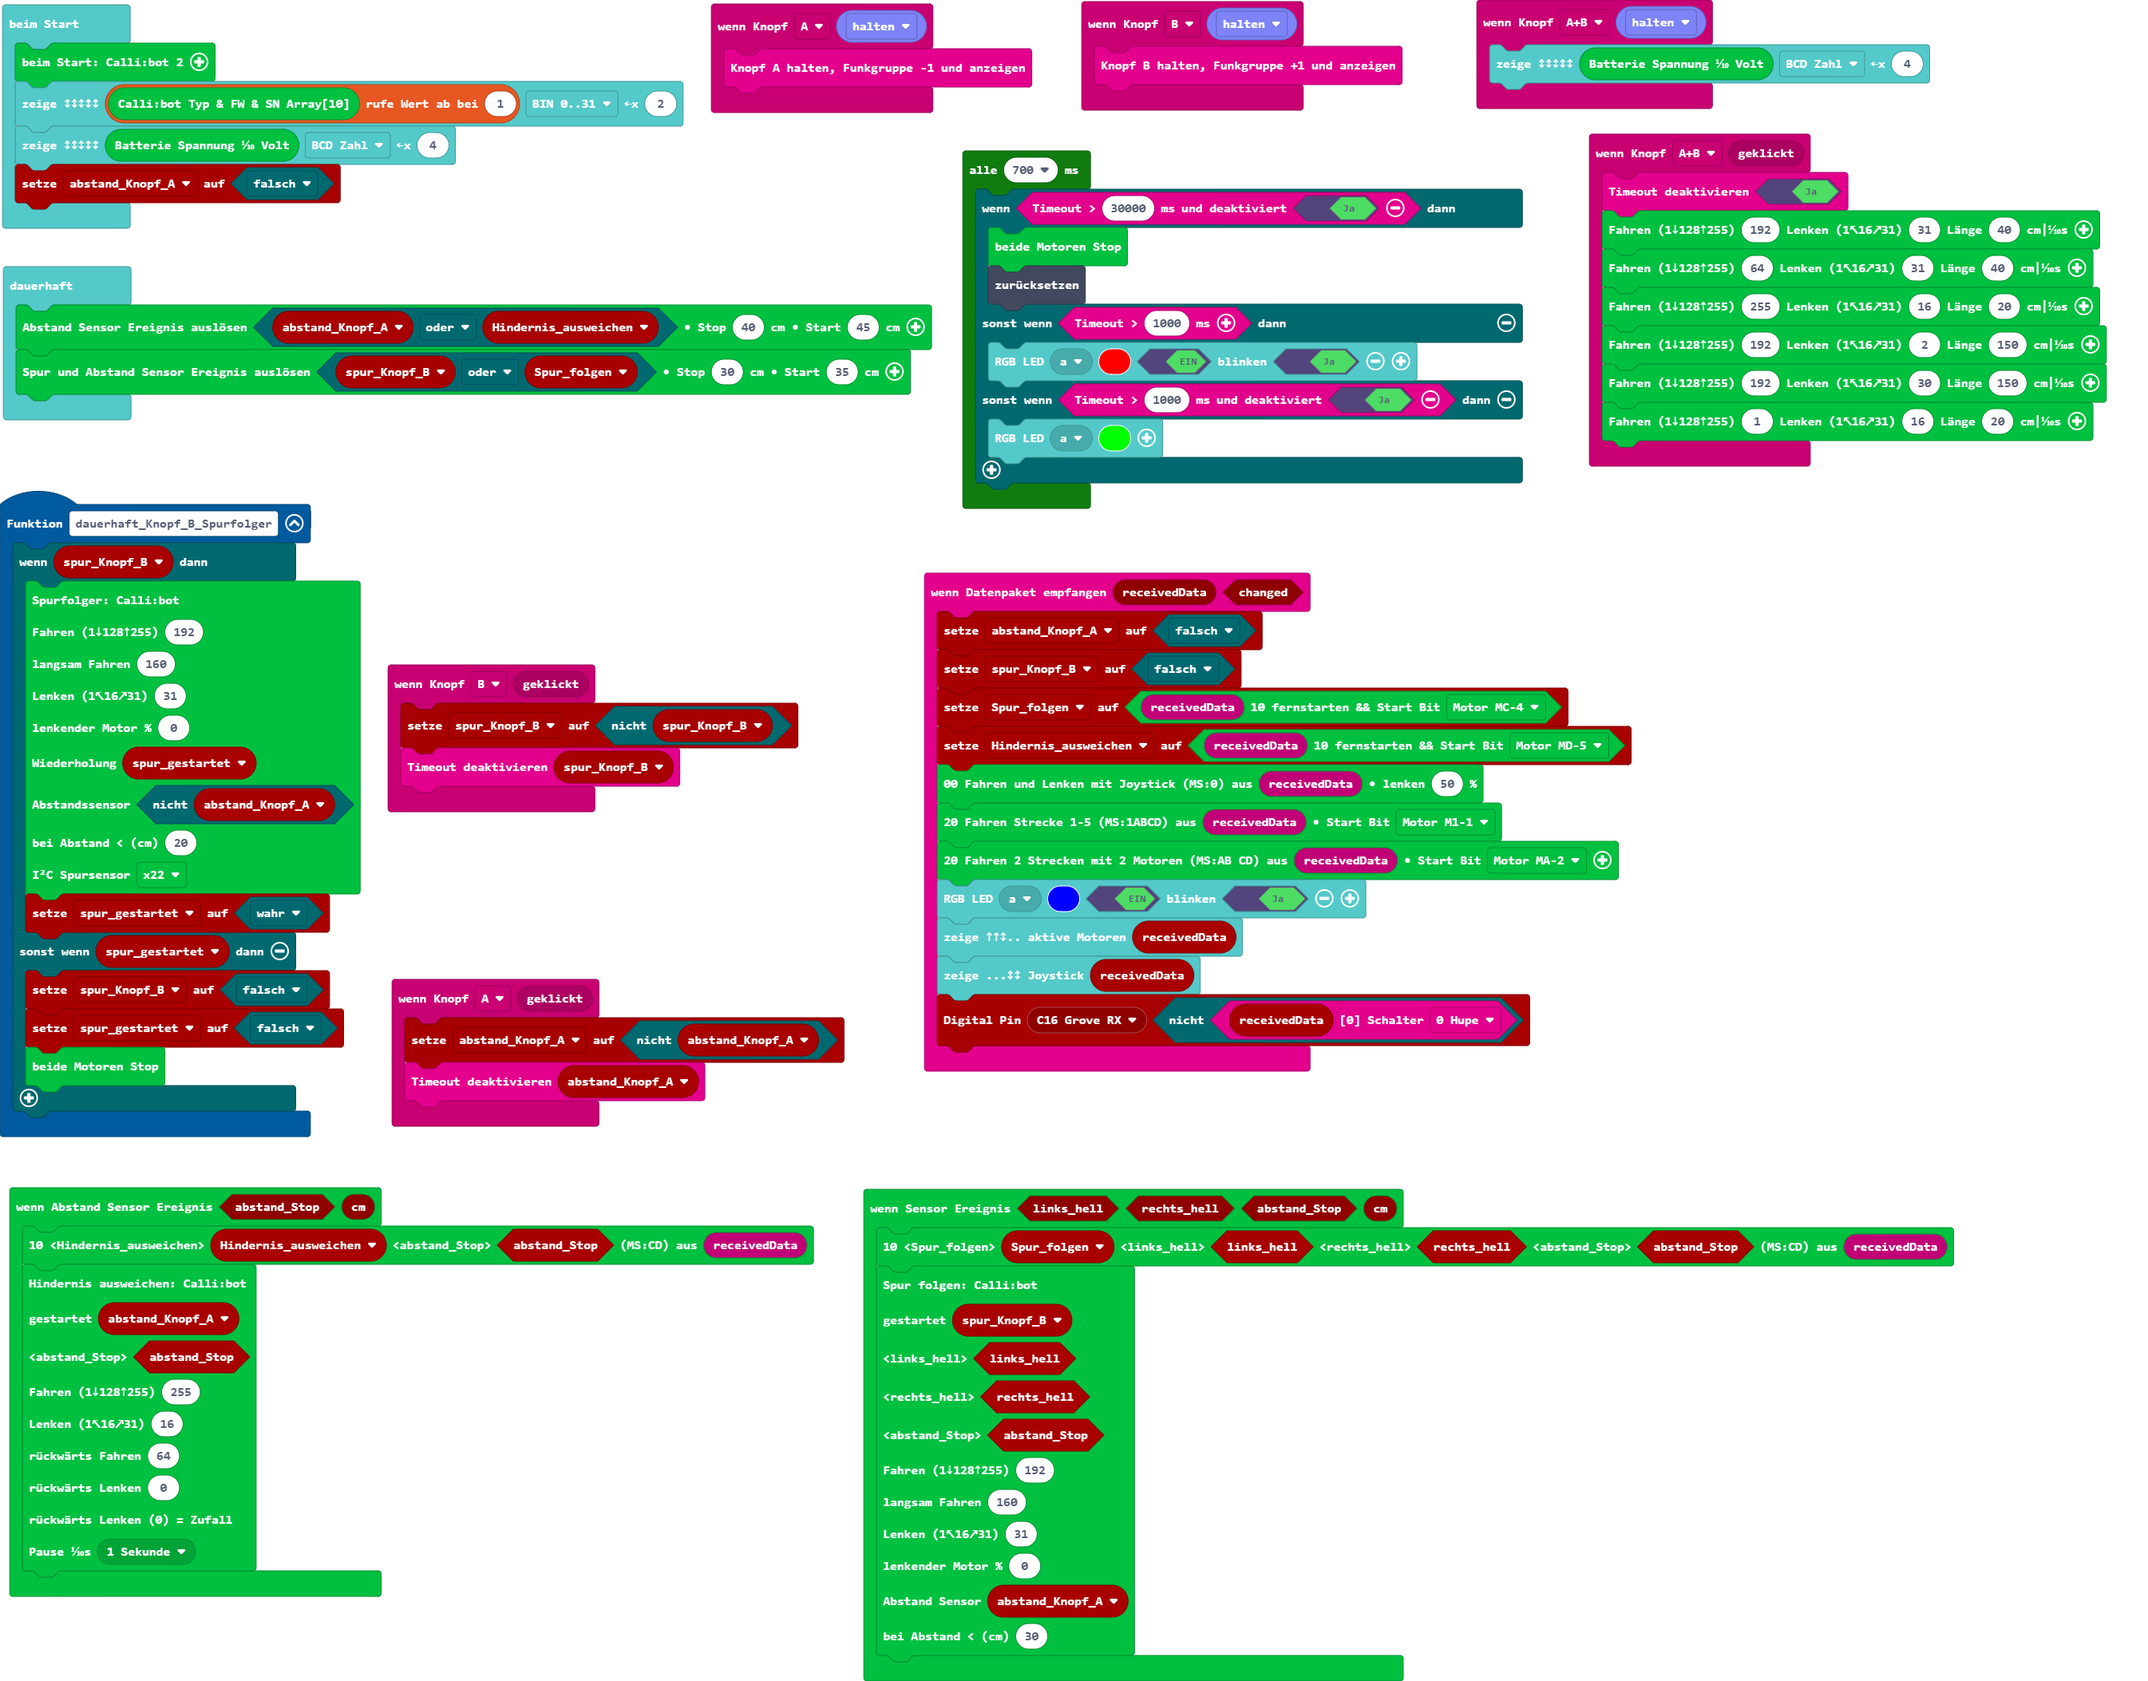
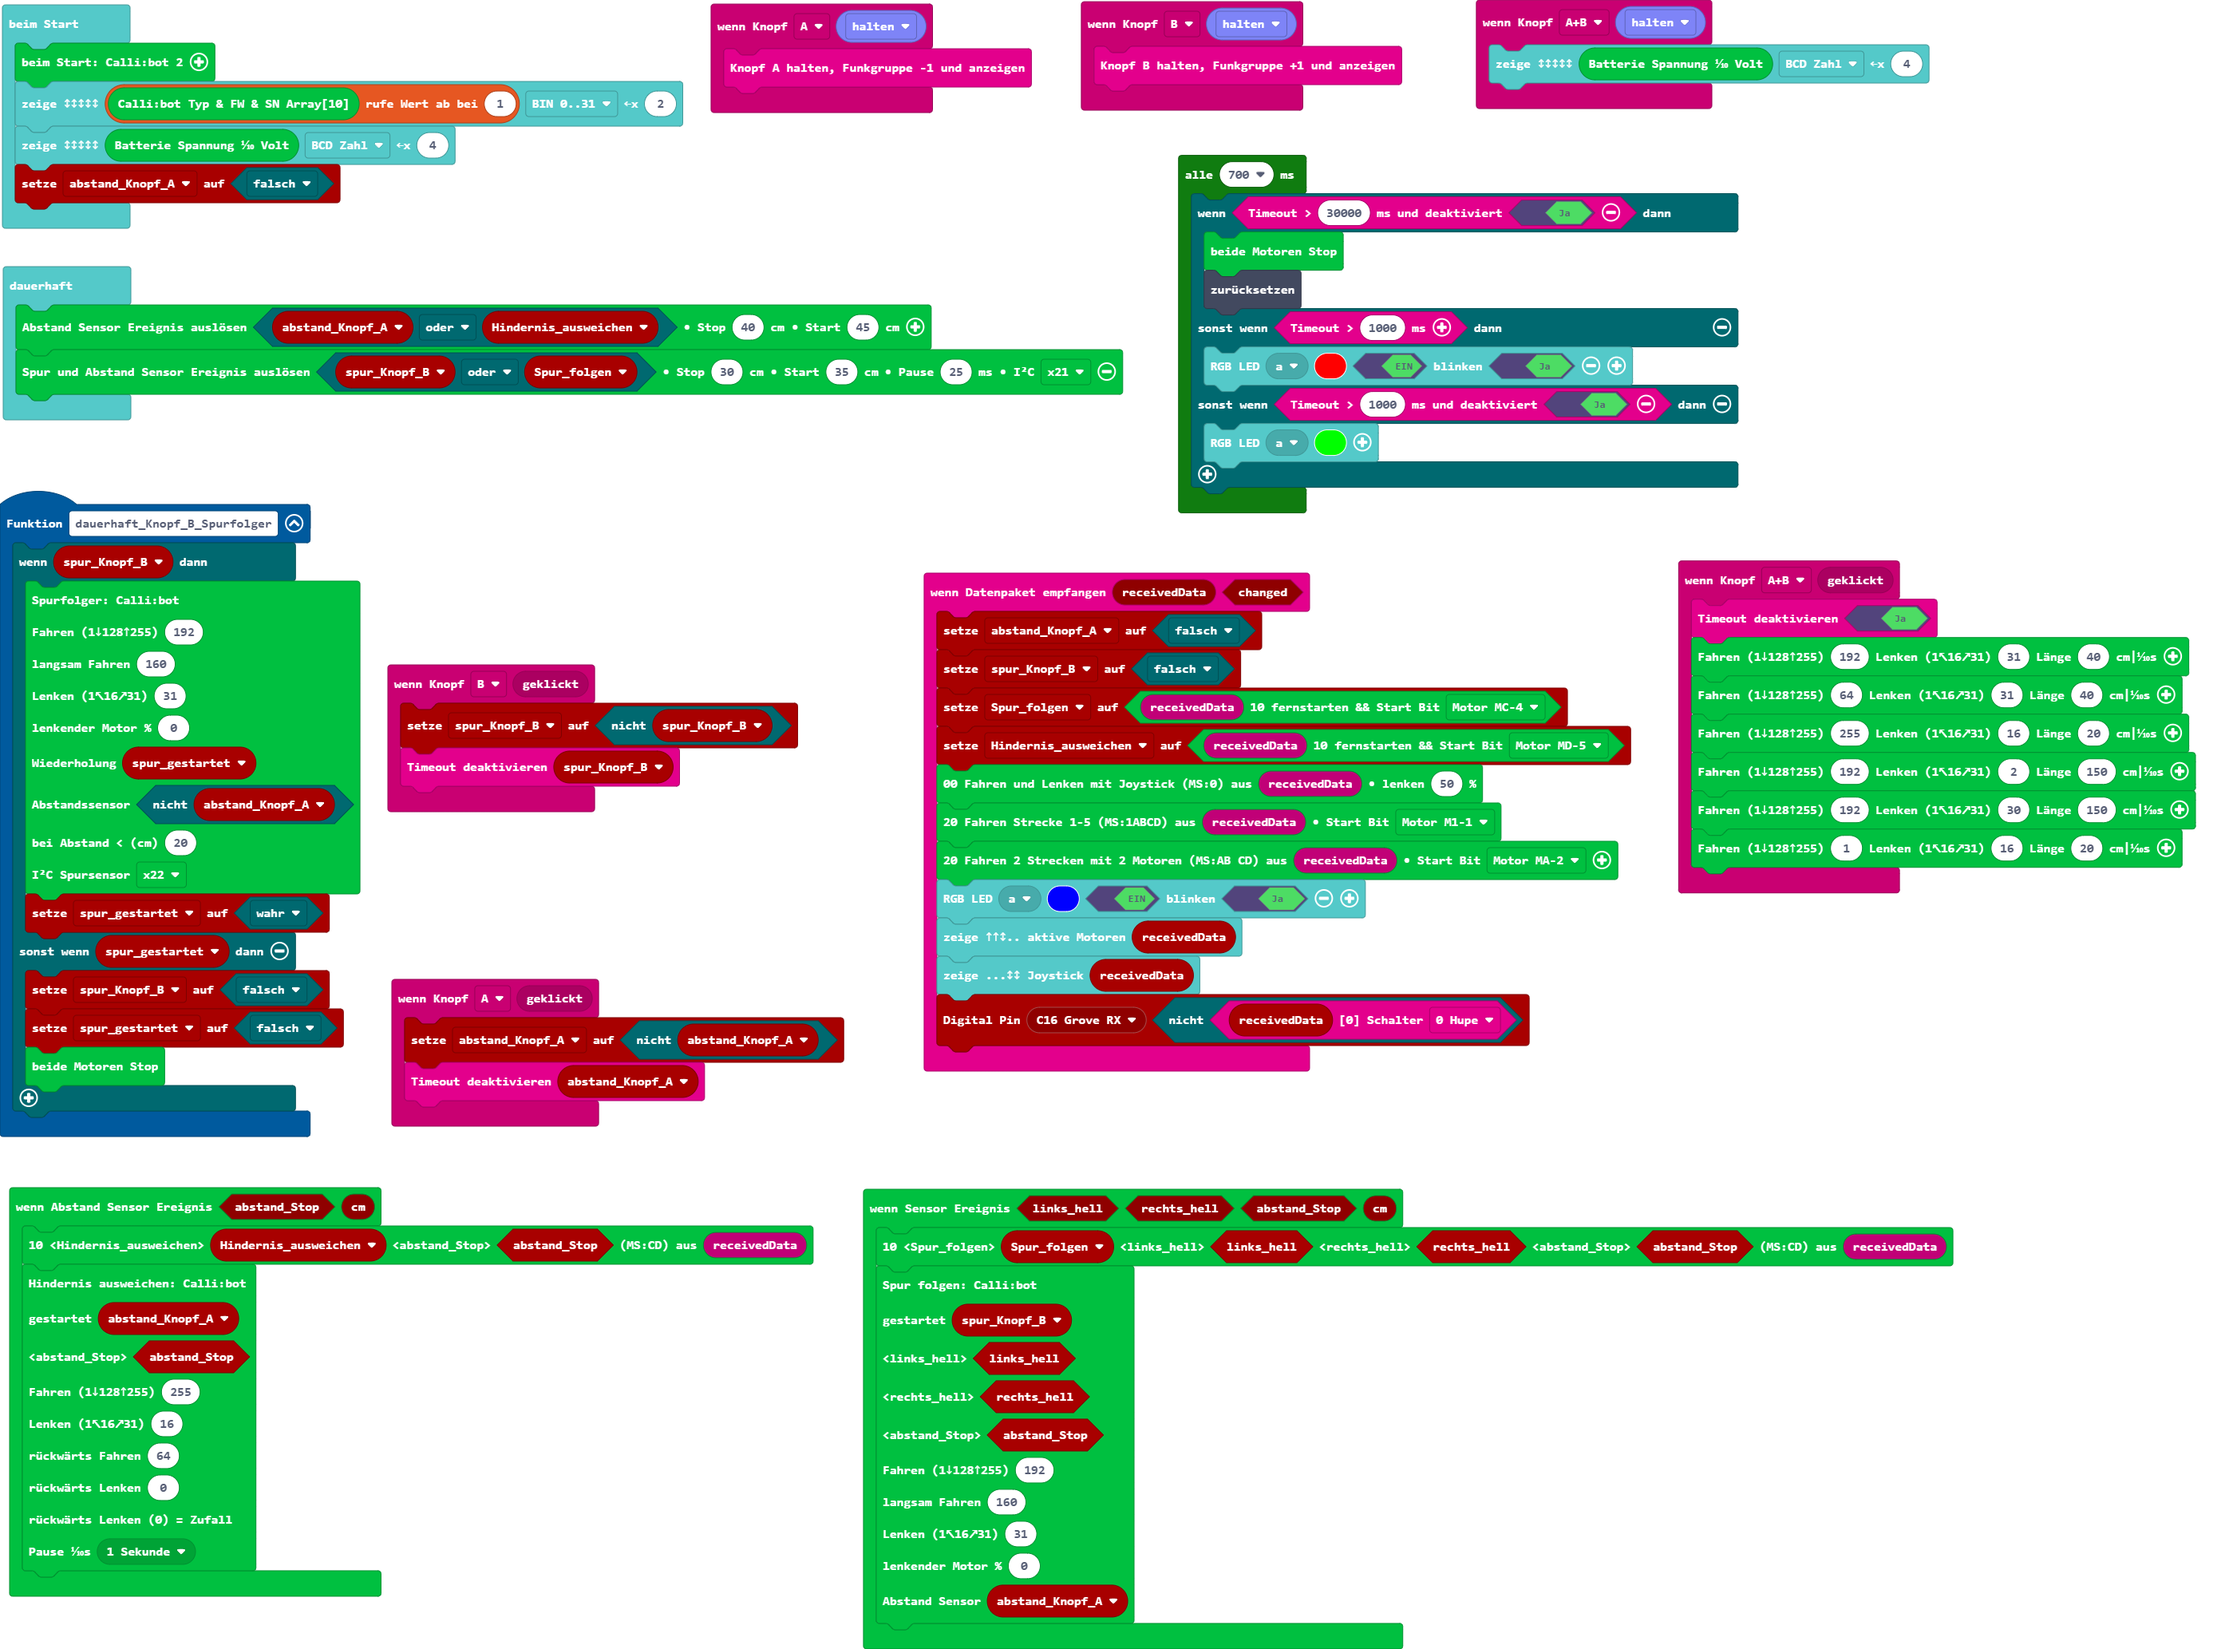
Aktualisiere pxt.json, main.blocks, main.ts

diff --git a/main.ts b/main.ts
@@ -57,8 +57,7 @@ cb2.onSensorEvent(function (links_hell, rechts_hell, abstand_Stop, cm) {
     160,
     31,
     0,
-    abstand_Knopf_A,
-    30
+    abstand_Knopf_A
     )
 })
 function dauerhaft_Knopf_B_Spurfolger () {
@@ -94,7 +93,7 @@ btf.zeigeBIN(cb2.readSpannung(), btf.ePlot.bcd, 4)
 abstand_Knopf_A = false
 basic.forever(function () {
     cb2.raiseAbstandEvent(abstand_Knopf_A || Hindernis_ausweichen, 40, 45)
-    cb2.raiseSensorEvent(spur_Knopf_B || Spur_folgen, 30, 35)
+    cb2.raiseSensorEvent(spur_Knopf_B || Spur_folgen, 30, 35, 25, cb2.eI2C.x21)
 })
 loops.everyInterval(700, function () {
     if (btf.timeout(30000, true)) {
